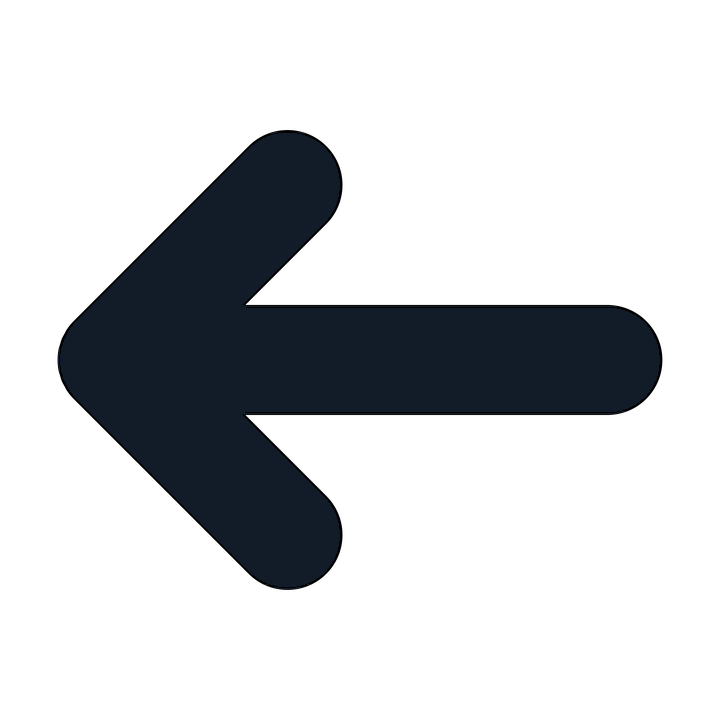
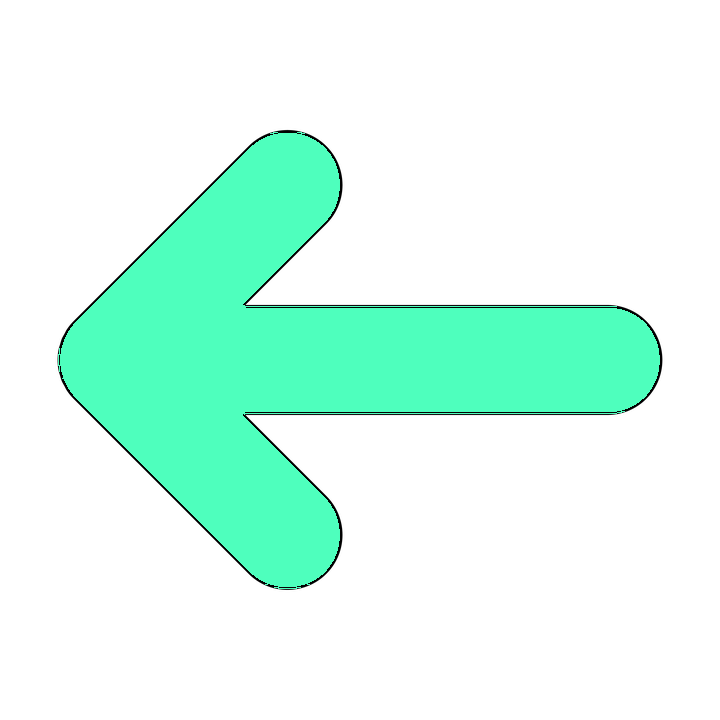
new theme

Changed region(s): [[0.0611, 0.1833, 0.9167, 0.825]]

diff --git a/thesis/tinyp2p.html b/thesis/tinyp2p.html
@@ -3,19 +3,24 @@
     <link rel="stylesheet" href="../style.css">
     <title>TinyP2P</title>
 </head>
+
 <body>
 
-<div> <a href="../index.html" ><img class="cat" src="../images/back.png" style="margin-bottom: 35px"></a></div>
+<div  style="text-align: left;"> <a href="../index.html" ><img class="back" src="../images/back.png" style="margin-bottom: 35px"></a></div>
 
-<center><font face="Trebuchet MS" size="18"><b>TinyP2P: A Decentralized </br>
+<h1>
+    TinyP2P: A Decentralized </br>
     User-Friendly
-    Peer-to-Peer File-Sharing System</b></font></center>
-</br></br>
+    Peer-to-Peer <br/>
+    File-Sharing System
+</h1>
+
+
 <center><font face="Arial" size="4"><b>About TinyP2P</b></font></center>
 </br>
 
 
-<center><div style="max-width:1000px; word-wrap:break-word;"><font face="Arial" size="3">Peer-to-Peer is said to be the next era of the internet, enabling the development of highly efficient and scalable distributed applications. File sharing is a popular online activity carried out by millions of users every day, but file sharing applications face several challenges to uptake, including availability, freeloading and legality issues. This paper explores these challenges, and investigates the viability of a purely decentralized application based on a Distributed Hash Table. We look at Human Computer Interaction, user interface goals and end user perspectives in order to achieve usability. We conclude that it is viable to develop a lightweight application to facilitate file sharing and communication in a user-friendly way, without the restriction of connecting to a central server or registering an account.
+<center><div style=" word-wrap:break-word;width: 83%;"><font face="Arial" size="3">Peer-to-Peer is said to be the next era of the internet, enabling the development of highly efficient and scalable distributed applications. File sharing is a popular online activity carried out by millions of users every day, but file sharing applications face several challenges to uptake, including availability, freeloading and legality issues. This paper explores these challenges, and investigates the viability of a purely decentralized application based on a Distributed Hash Table. We look at Human Computer Interaction, user interface goals and end user perspectives in order to achieve usability. We conclude that it is viable to develop a lightweight application to facilitate file sharing and communication in a user-friendly way, without the restriction of connecting to a central server or registering an account.
 </font></div></center>
 </br></br>
 
@@ -26,7 +31,7 @@
     <font face="Arial" size="4">
         Bachelor of Science (Honours)</br>
         of Rhodes University</br></br>
-    </font>
+    </font></center>
     by</br></br>
     <center><font face="Arial" size="4">
         Nichola Reid <a href="mailto:nicky.reid92@gmail.com?" target="_top"><img src="../images/envelope.gif" alt="Contact"></a></br></br>
@@ -34,16 +39,17 @@
 
     </font>
         Supervised by</br></br>
+        </center>
         <center><font face="Arial" size="4">
             Yusuf Motara
         </font>
             </br>
             </br></br>
-            <center><font face="Arial" size="5" color = "black">
+            <font face="Arial" size="5" color = "black">
                 <a href=thesis-links.html><u>Links</u></br>
 
             </font>
             </center>
-            <img src="../images/cat.png" alt="Links">
+
             </a>
-</body></html>
+</body>

diff --git a/style.css b/style.css
@@ -1,23 +1,52 @@
+html{
+    width: 100%;
+    height: 100%;
+}
 body{
+    text-align: center;
+    color: #67f9ca78;
     background-size:cover;
     background-image: url("./images/bg.png");
     font-family: Arial, Helvetica, "Nimbus Sans L", sans-serif;
 }
 h1.title{
-    text-align: center;
     font-family: "Courier New", sans-serif;
-    color: #20152145;
-    text-shadow:
-            -0px -0px 0 #3a3a3a,
-            0px -0px 0 #3a3a3a,
-            -1px 1px 0 #EEE,
-            1px 1px 0 #EEE;
+    margin-top: 150px;
     letter-spacing: 10px;
-    margin-top: 100px;
     font-size: 55px;
 }
 img.cat{
     width:50px;
     height:50px;
+}
+img.back{
+    width:50px;
+    height:50px;
+}
+p.intro{
+    margin-bottom: 55px;
+ }
 
+/* unvisited link */
+a:link {
+    color: #54f4ff78;
+    text-decoration: none;
+}
+
+/* visited link */
+a:visited {
+    color: #54f4ff78;
+    text-decoration: none;
+}
+
+/* mouse over link */
+a:hover {
+    color: #67f9ca78;
+    text-decoration: underline;
+}
+
+/* selected link */
+a:active {
+    color: #67f9ca78;
+    text-decoration: underline;
 }

diff --git a/thesis/thesis-links.html b/thesis/thesis-links.html
@@ -5,14 +5,17 @@
 </head>
 <body>
 
-<div> <a href="tinyp2p.html" ><img class="cat" src="../images/back.png" style="margin-bottom: 35px"></a></div>
+<div style="text-align: left;"> <a href="tinyp2p.html" ><img class="back" src="../images/back.png" style="margin-bottom: 35px"></a></div>
 
 
-<center><font face="Trebuchet MS" size="18"><b>TinyP2P: A Decentralized </br>
+<center>
+
+    <h1>
+    TinyP2P: A Decentralized </br>
     User-Friendly
-    Peer-to-Peer File-Sharing System</b></font>
-    </br></br>
-    </br>
+    Peer-to-Peer <br/>
+    File-Sharing System
+</h1>
     <font face="Arial" size="4">
         <a href="Project%20Proposal.pdf" download="Project Proposal">Project Proposal</a></br>
         </br>

diff --git a/index.html b/index.html
@@ -2,11 +2,27 @@
 <head>
     <link rel="stylesheet" href="style.css">
 </head>
+
 <body>
 <h1 class="title">
     <div>Nicky Reid</div>
-    <br/>
-   <div> <a href="thesis/tinyp2p.html" ><img class="cat" src="./images/cat.png"></a></div>
 </h1>
+<div>
+    <p class="intro">
+        Software Developer living in Cape Town, South Africa.
+    </p>
+</div>
+
+
+<!--<img class="cat" src="./images/cat.png">-->
+<div>
+    <a href="thesis/tinyp2p.html" style=" text-decoration: none;">Bachelor of Science (Honours) Thesis</a>
+</div>
+<br/>
+<br/>
+<div>
+    <a href="https://github.com/nickyreid" style=" text-decoration: none;">Github</a>
+</div>
+
 
 </body>
